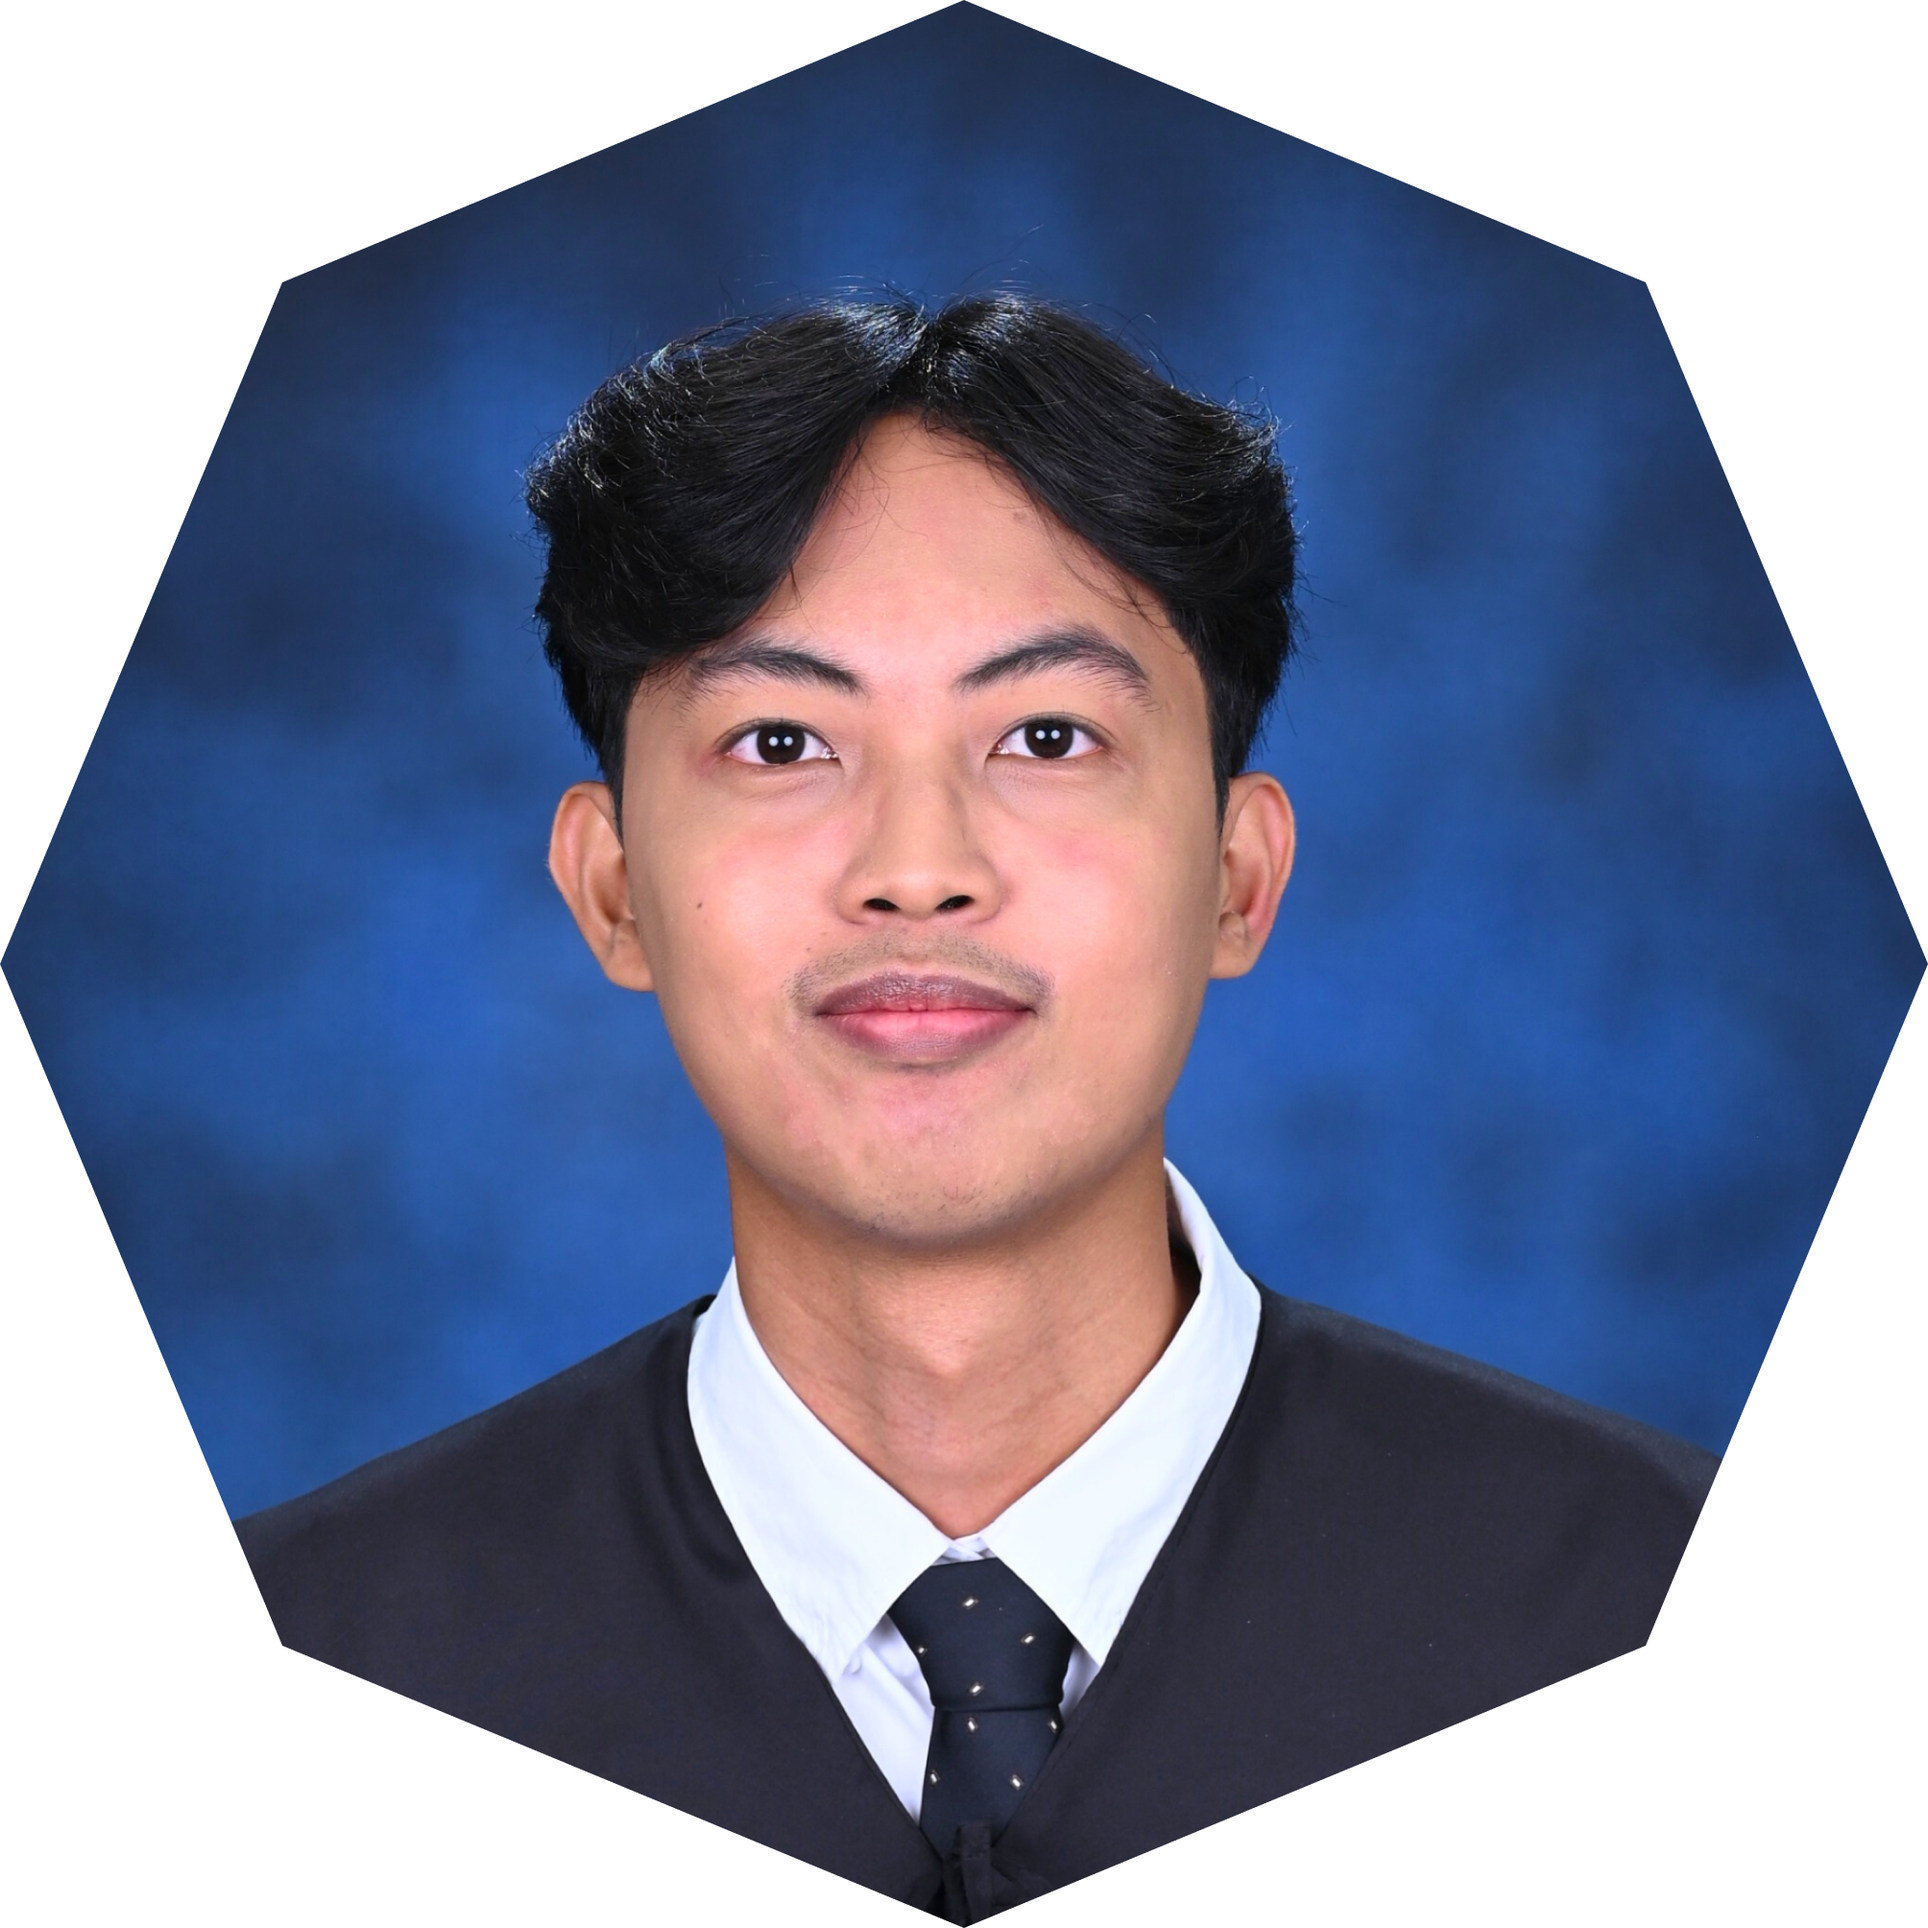
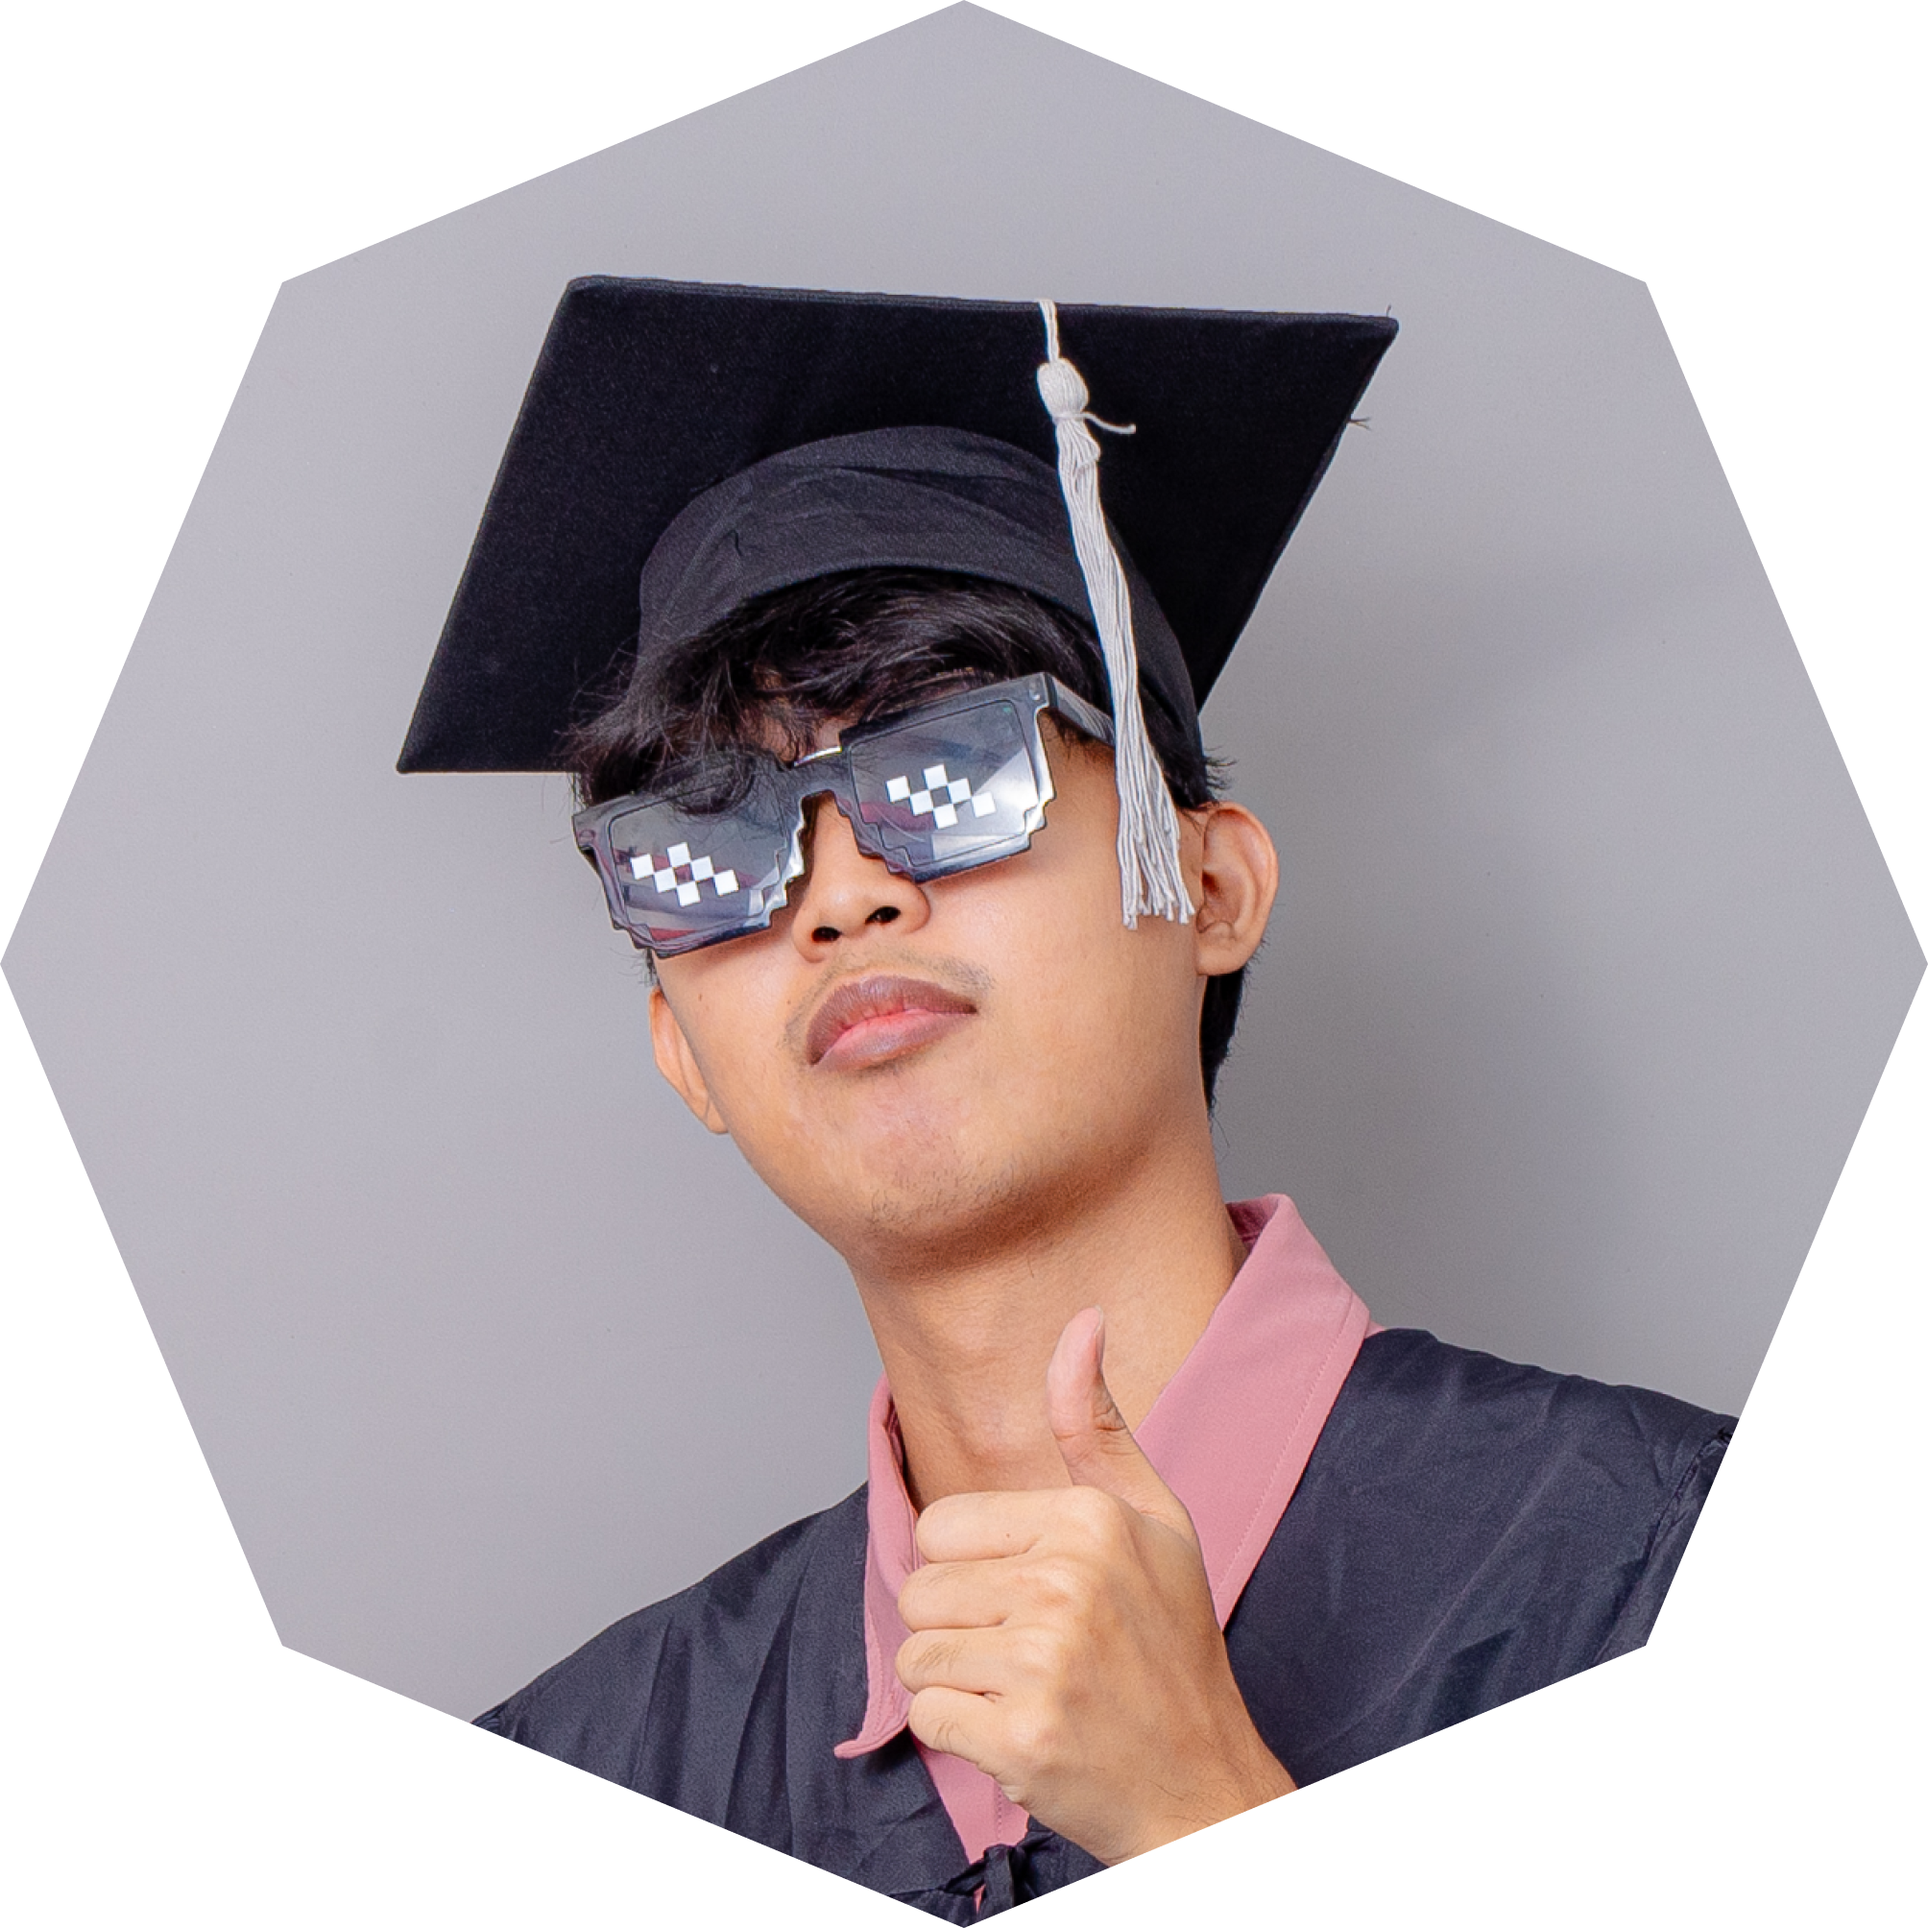
Update experience dates and profile images
Corrected period fields in Experience.jsx for accuracy and updated profile image assets. Ensures displayed experience and education dates are correct and profile images are refreshed.

diff --git a/my_portfolio/src/pages/Experience.jsx b/my_portfolio/src/pages/Experience.jsx
@@ -20,7 +20,7 @@ export function Experience() {
       title: "Freelance Full-stack Web Developer",
       company: "PetroEnergy Resources Corporation",
       location: "Ortigas Business Center, Pasig City",
-      period: "Sep - October 2025",
+      period: "Sep - Oct 2025",
       type: "project",
       description: "Optimized and refined frontend components. Implemented JWT/OAuth authentication, role-based access control (RBAC), input validation, and data encryption. Integrated comprehensive backup and recovery mechanisms, including full and incremental restore procedures",
       skills: ["Data Warehousing", "Project Management", "Wireframing", "React.js", "FastAPI", "PostgreSQL", "Python"],
@@ -53,7 +53,7 @@ export function Experience() {
       title: "ADO - Student Assistant",
       company: "Mapúa Malayan Colleges Laguna",
       location: "Cabuyao, Laguna",
-      period: "Aug - Sep 2025",
+      period: "Aug - Sep 2023",
       type: "work",
       description: "Maintaining and managing private student information in online and physical files. Assisting the admissions office in processing admission forms for potential students. Interacting with students in person and via phone to address any questions or concerns.",
       skills: ["Support Services", "Student Services", "Communication", "Data Entry"],
@@ -64,7 +64,7 @@ export function Experience() {
       title: "Bachelor of Science in Computer Science",
       company: "Mapúa Malayan Colleges Laguna",
       location: "Cabuyao, Laguna",
-      period: "Aug 2021 - Oct 2025",
+      period: "2021 - 2025",
       type: "education",
       description: "Activities and societies: Student Council, School Events Volunteer, Academic Organization, Member of Junior Philippine Computing Society",
       skills: ["Software Engineering", "Data Structures", "Algorithms", "Database Systems", "Machine Learning", "Web Development", "Mobile Devlopment"],
